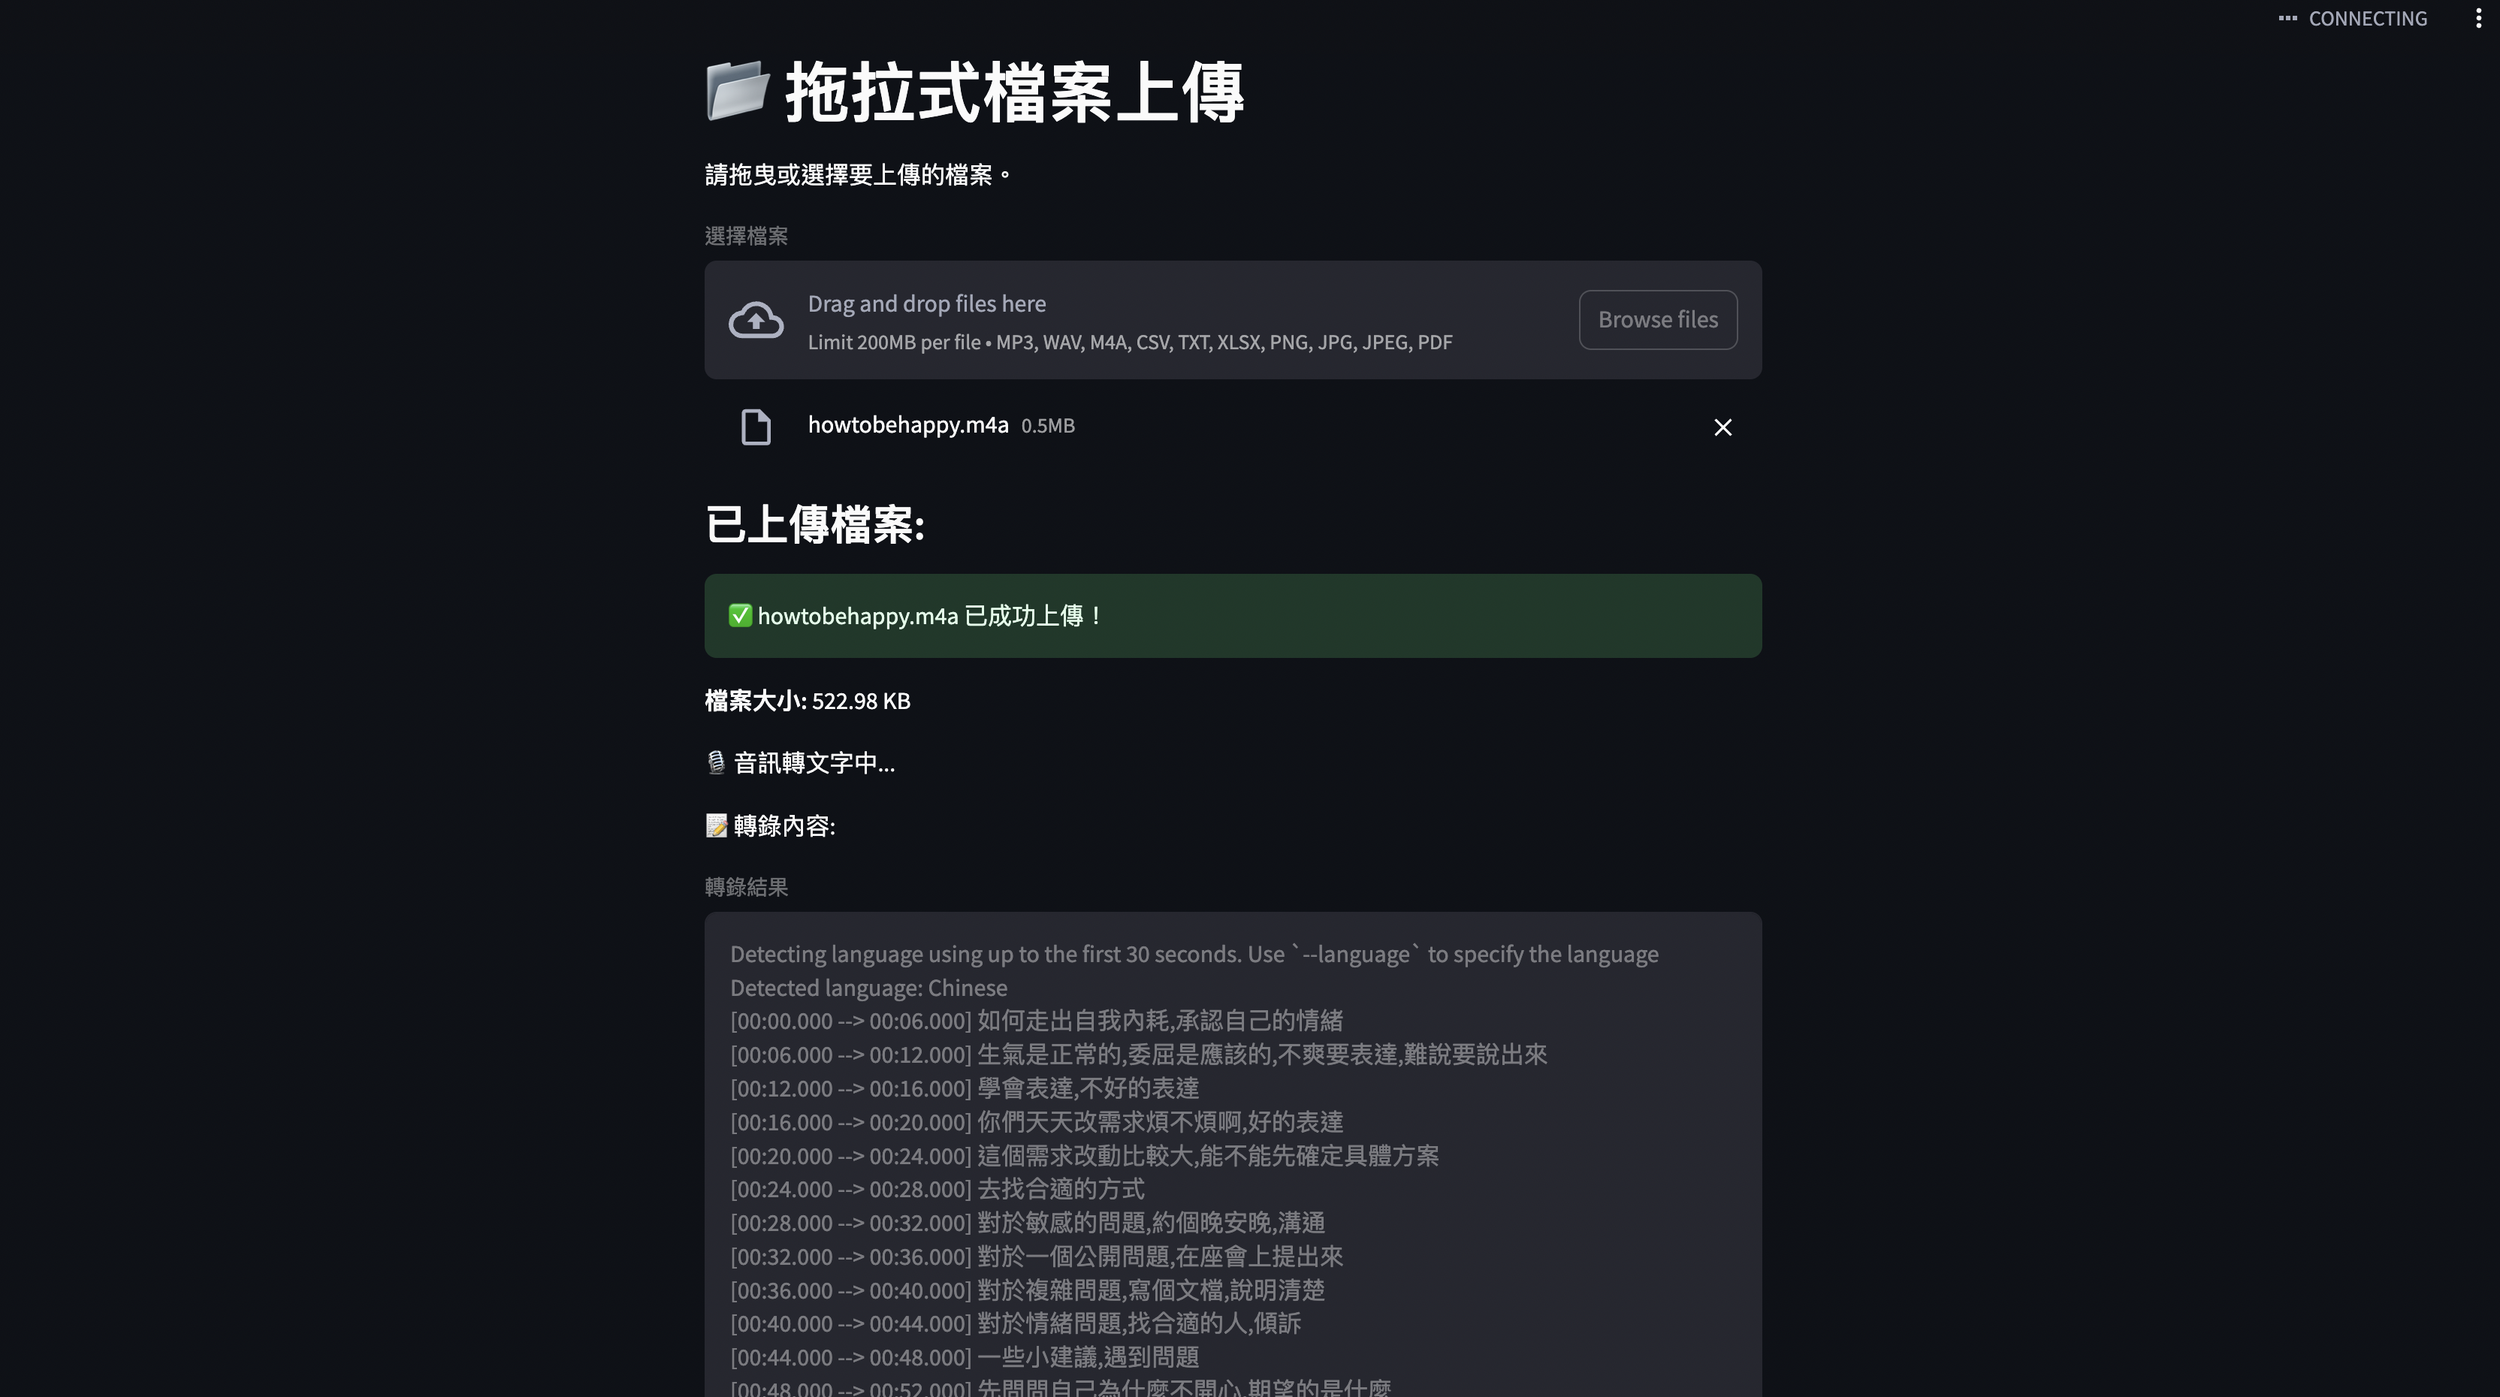
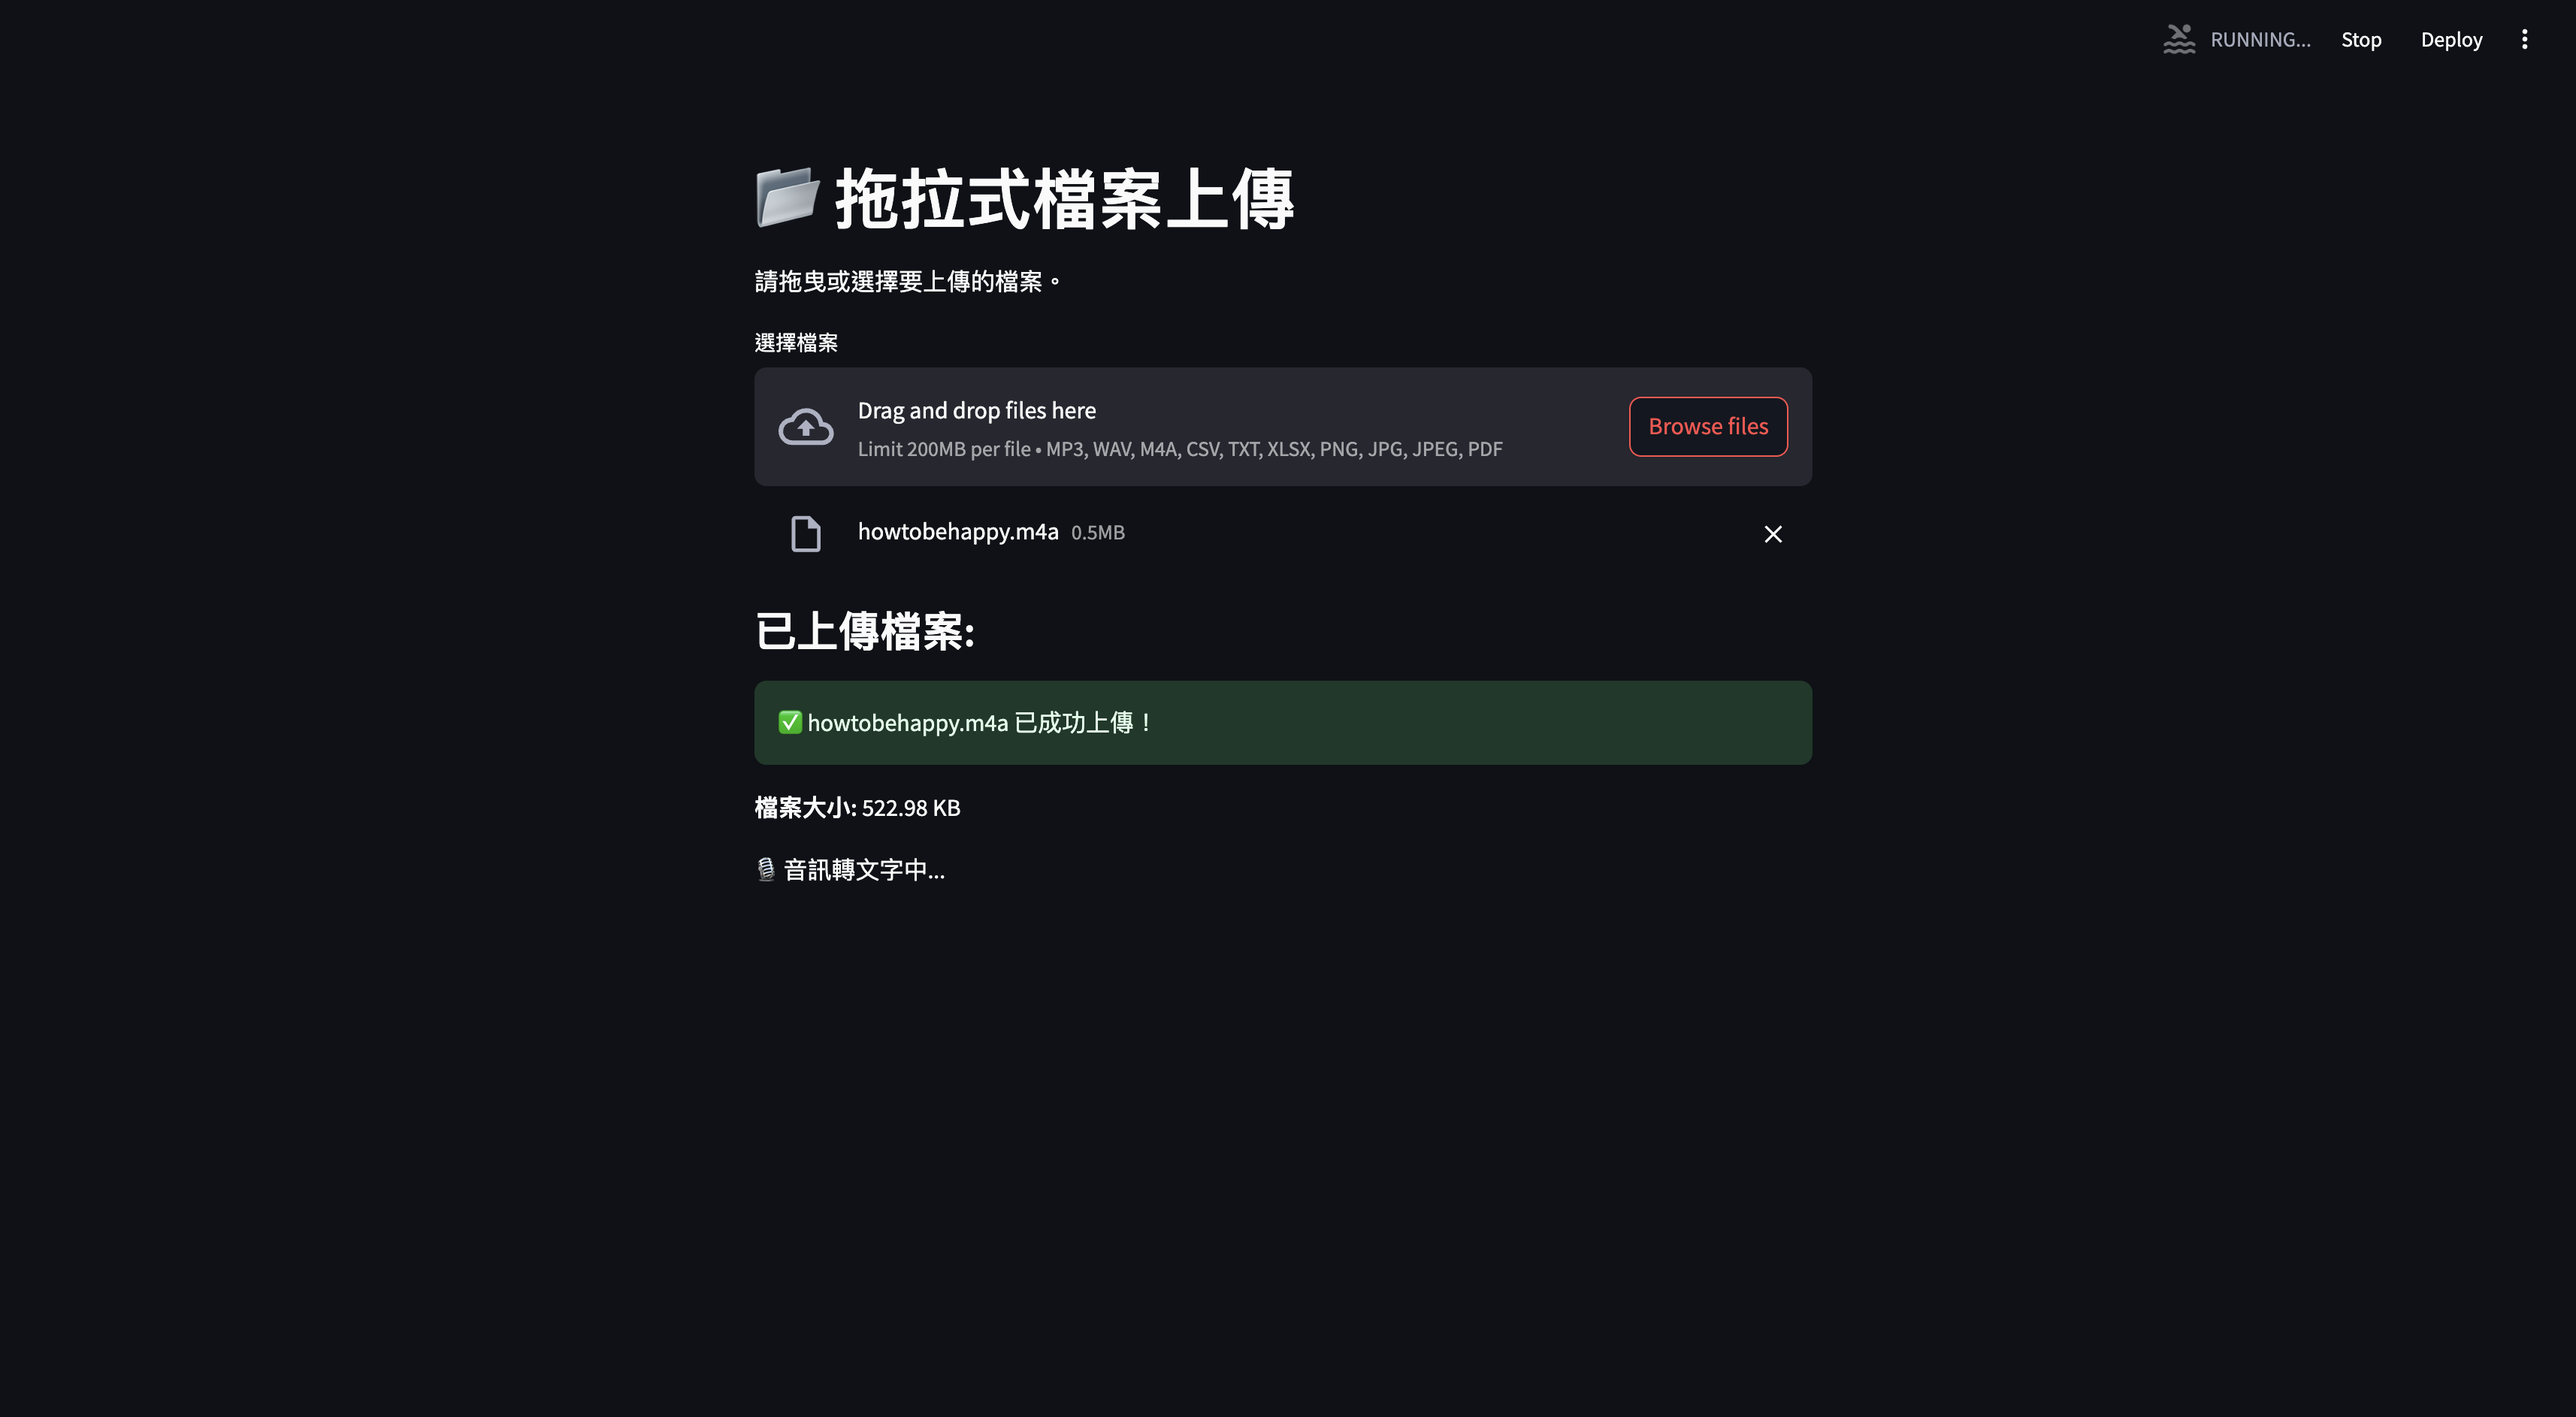
update demo pictures and README.md

Changed region(s): [[0.2812, 0.0312, 0.7188, 1.0], [0.9062, 0.0, 0.9688, 0.0312], [0.8438, 0.0, 0.875, 0.0312]]

diff --git a/README.md b/README.md
@@ -2,8 +2,15 @@
 上傳錄音檔，利用whisper音轉字模組，把音檔轉成文字檔，呈現在介面上。
 
 
-
 ![網站介面](images/demo.png)
-
-
 ![轉譯範例](images/demo2.png)
+
+
+# 需求套件
+streamlit
+whisper
+其他基本python套件
+
+# 執行指令
+streamlit run main_stt.py
+
